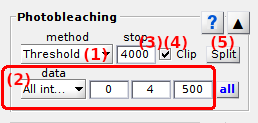
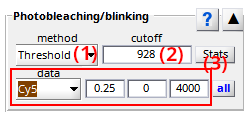
update doc section panel photobleaching/blinking with photobleaching an blinking detection

diff --git a/docs/trace-processing/components/panel-photobleaching.md b/docs/trace-processing/components/panel-photobleaching.md
@@ -8,25 +8,25 @@ nav_order: 7
 
 <img src="../../assets/images/logos/logo-trace-processing_400px.png" width="170" style="float:right; margin-left: 15px;"/>
 
-# Photobleaching
+# Photobleaching/blinking
 {: .no_toc }
 
-Photobleaching is the seventh panel of module Trace processing. 
+Photobleaching/blinking is the seventh panel of module Trace processing. 
 Access the panel content by pressing 
 ![Bottom arrow](../../assets/images/gui/interface-but-bottomarrow.png). 
 The panel closes automatically after other panels open or after pressing 
 ![Top arrow](../../assets/images/gui/interface-but-toparrow.png). 
 
-Photobleaching settings are specific to each molecule. 
+Photobleaching/blinking detection settings are specific to each molecule. 
 Press 
 ![all](../../assets/images/gui/TP-but-all.png "all") to apply current settings to all molecules. 
 Corrections will be applied only after processing data by pressing 
 ![UPDATE ALL](../../assets/images/gui/TP-but-update-all.png "UPDATE ALL"); see 
 [Process all molecules data](area-control.html#process-all-molecules-data) for more information.
 
-Use this panel to detect dye photobleaching and suppress photobleached data.
+Use this panel to detect and correct for dye blinking and photobleaching.
 
-<a class="plain" href="../../assets/images/gui/TP-panel-pb.png"><img src="../../assets/images/gui/TP-panel-pb.png" style="max-width: 258px;"/></a>
+![Photobleaching/blinking panel](../../assets/images/gui/TP-panel-pb.png "Photobleaching/blinking panel")
 
 ## Panel components
 {: .no_toc .text-delta }
@@ -37,102 +37,118 @@ Use this panel to detect dye photobleaching and suppress photobleached data.
 
 ---
 
-## Photobleaching detection method
+## Photobleaching/blinking detection method
 
-Use this list to select the appropriate method for photobleaching detection.
+Use this list to select the appropriate method for photobleaching/blinking detection.
 
 Emitter photobleaching can either be detected visually or automatically, by respectively selecting `Manual` or `Threshold` in the list.
 
 For `Manual` detection, the photobleaching cutoff must be set by hand in 
 [Photobleaching cutoff](#photobleaching-cutoff).
 
-`Threshold` detection is performed by thresholding using the settings defined in 
-[Automatic detection settings](#automatic-detection-settings).
+For `Threshold`, automatic detection of blinking and photobleaching is performed by using the settings defined in 
+[Threshold detection settings](#threshold-detection-settings).
 
 
 ---
 
 ## Photobleaching cutoff
 
-Shows the photobleaching position given in seconds or frame according to time-axis units defined in menu `Units` of the 
+Shows the time point at which the photobleaching event was detected. 
+It is given in seconds or frame according to the time-axis units defined in menu `Units` of the 
 [menu bar](../../Getting_started.html#interface).
 
-For method `Threshold`, the photobleaching cutoff detected with 
-[Automatic detection settings](#automatic-detection-settings) is shown here.
+For method `Threshold`, the earliest photobleaching cutoff detected with 
+[Automatic detection settings](#threshold-detection-settings) is shown here.
 
 For method `Manual`, the photobleaching cutoff must be set here.
 
 
 ---
 
-## Truncate trajectories
+## Stats
 
-Activate this option to truncate time traces at the 
-[Photobleaching cutoff](#photobleaching-cutoff), or deactivate this option to visualize a blue cursor at the cutoff position in 
-[Intensity-time traces](visualization-area.html#intensity-time-traces-and-histograms) and 
-[Ratio-time traces](visualization-area.html#ratio-time-traces-and-histograms).
+After applying `Threshold` photobleaching/blinking detection to all molecules with ![All](../../assets/images/gui/TP-but-all.png "All") and updating calculations with ![UPDATE ALL](../../assets/images/gui/TP-but-update-all.png "UPDATE ALL"), press ![Stats](../../assets/images/gui/TP-but-stats.png "stats") to open statistics on photobleaching and blinking.
 
-<img src="../../assets/images/figures/TP-panel-photobleaching-disp.png" style="max-width:538px;">
+![Stats window](../../assets/images/gui/TP-panel-pb-stats.png "Stats on blinking and photobleaching")
 
-<img src="../../assets/images/figures/TP-panel-photobleaching-truncate.png" style="max-width:538px;">
+In order to access lifetimes until photobleaching, as well as "on" and "off" state lifetimes for each emitter $$k$$, survival distributions $$S$$ are fit with single exponential functions:
 
-For more information about how photobleaching correction is used in smFRET data analysis, see 
-[Correct for photobleaching](../workflow.html#correct-for-photobleaching) in Trace processing workflow.
+$$
+S\!\left( \Delta t_{\mathrm{bleach},k} \right) = 1-CDF\!\left( \Delta t_{\mathrm{bleach},k} \right) = A_{\mathrm{bleach},k}\exp\!\left( -\frac{\Delta t_{\mathrm{bleach},k}}{\tau_{\mathrm{bleach},k}} \right)
+$$
+
+$$
+S\!\left( \Delta t_{\mathrm{on},k} \right) = A_{\mathrm{on},k}\exp\!\left( -\frac{\Delta t_{\mathrm{on},k}}{\tau_{\mathrm{on},k}} \right)
+$$
+
+$$
+S\!\left( \Delta t_{\mathrm{off},k} \right) = A_{\mathrm{off},k}\exp\!\left( -\frac{\Delta t_{\mathrm{off},k}}{\tau_{\mathrm{off},k}} \right)
+$$
+
+where $$\Delta t_{\mathrm{bleach}}$$ are the measured times until photobleaching, $$\Delta t_{\mathrm{on}}$$ and $$\Delta t_{\mathrm{off}}$$ are the dwell times in the "off" and "on" states, and where parameters $$A$$ are the exponential amplitudes and $$\tau$$ the state lifetimes.
+
+Confidence intervals on fit parameters $$A$$ and $$\tau$$ are obtained by calculating the standard deviations over 100 bootstrap molecule samples.
+
+Survival distributions of times until photobleaching, blink-off and blink-on dwell times are plot with blue circles in **(d)**, **(e)** and **(f)**, respectively, for the emitter selected in list **(a)** using the axis scale selected in list **(b)**.
+The available axis scales are:
+* `linear-linear`: time and probability axis are scaled linearly
+* `log-linear`: time axis is scaled logarithmically and probability axis linearly
+* `linear-log`: time axis is scaled linearly and probability axis logarithmically
+* `log-log`: time and probability axis are scaled logarithmically
+
+Bootstrap fit results are plot in red, with the mean fitting curve being represented by in solid line and 1$$\sigma$$ confidence interval by dotted lines.
+Fit parameters and 1$$\sigma$$ confidence interval are written in the top-right corner of the plots.
+
+To characterize blinking kinetics, rate constants $$k_{\mathrm{off},k}$$ and  $$k_{\mathrm{on},k}$$ that respectively govern transitions to the "off" or to the "on" state for emitter $$k$$ are calculated from "on" and "off" state lifetimes such as:
+
+$$
+k_{\mathrm{off},k} = \frac{1}{\tau_{\mathrm{on},k}}
+$$
+
+$$
+k_{\mathrm{on},k} = \frac{1}{\tau_{\mathrm{off},k}}
+$$
+
+A state diagram summarizing blinking kinetics is drawn in **(g)**.
+
+Press ![Export](../../assets/images/gui/TP-but-export.png) to save statistics for emitter selected in **(a)** to a .txt file.
 
 
 ---
 
-## Split trajectories
+## Threshold detection settings
 
-Intensity interruptions occurring in the middle of a trace (e. g., blinking) can be corrected by splitting intensity-time traces in two and truncating the end of the first trace (see 
-[Truncate trajectories](#truncate-trajectories)) and the beginning of the second (see 
-[Time axis](panel-plot.html#time-axis)).
+Use this interface to define the settings for automatic detection of photobleaching.
 
-Press 
-![Split](../../assets/images/gui/TP-but-split.png "all") to split time traces in two at the 
-[Photobleaching cutoff](#photobleaching-cutoff).
-In this case, the right-side of the cutoff is saved as a separate molecule, which is added to the 
-[Molecule list](panel-sample-management.html#molecule-list).
-Both molecules will be given a "Split" tag in order to easily identify them in the list.
+![Threshold settings](../../assets/images/gui/TP-panel-pb-param.png "Threshold detection settings")
 
-For more information about how blinking correction is used in smFRET data analysis, see 
-[Correct for photobleaching](../workflow.html#correct-for-photobleaching) in Trace processing workflow.
+Settings are specific to the emitter selected in **(a)**, where only the emitters having a specific laser illumination defined in 
+[Lasers](../../tutorials/set-experiment-settings/import-trajectories.html#lasers) are listed.
 
+The algorithm for automatic detection of photobleaching inspects the total emission trajectory $$I_{\mathrm{tot}}$$ of each of the $$K$$ emitters in order to look for blinking and photobleaching events.
+Total emissions are obtained by summing up intensities accross all emission channels collected upon the emitter's specific laser illumination:
 
----
+$$
+I_{\mathrm{tot},k} = \sum_{i=1}^K I_{i,\mathrm{em}}^{k,\mathrm{ex}} 
+$$
 
-## Automatic detection settings
+where $$I_{i,\mathrm{em}}^{k,\mathrm{ex}}$$ is the intensity collected in emission channel $$i$$ upon illumination with laser specific to emitter $$k$$.
 
-Us this interface to define the settings for automatic detection of photobleaching.
+To counteract the undesirable effects of noisy fluctuations on threshold detection and make the algorithm more robust, trajectories are discretized using [`STaSI+vbFRET`](panel-find-states.html#stasivbfret) prior analysis, and a threshold **(b)** relative to the maximum discrete intensity is used.
 
-<a class="plain" href="../../assets/images/gui/TP-panel-pb-param.png"><img src="../../assets/images/gui/TP-panel-pb-param.png" style="max-width: 204px;"/></a>
+Then, an “off” state is identified when the discretized trajectory falls below the threshold, and an “on” state when it rises back above it.
+Portions of the trajectories that were detected in a "off" state are indicated with a gray background in in trajectory plots of the [Visualization area](area-visu.html) and the associated data is intentionally not plotted as it is ignored from the rest of the analysis.
 
-Photobleaching is detected when the time trace selected in menu **(a)** drops below a certain threshold defined in **(b)** and providing a minimum cutoff value set in **(d)**.
+![Off states in trajectories](../../assets/images/figures/TP-panel-pb-traj.png)
 
-Traces available for photobleaching detection are:
-
-* `FRET [D]>[A]` the FRET-time trace of the pair donor emitter `[D]` -acceptor emitter `[A]`
-* `S [D]>[A]` the Stoichiometry-time trace associated to the FRET pair donor emitter `[D]` -acceptor emitter `[A]`
-* `[E] at [L]nm` the single intensity-time trace of emitter `[E]` upon illumination with laser wavelength `[L]` (in nm)
-* `all intensities` the minimum values found in all intensity-time traces
-* `summed intensities` the sum of all intensity-time traces
-
-In case of intensity-time traces, the threshold is given in counts or counts per second according to intensity units defined in menu `Units` of the 
+Photobleaching is declared when 100% of the remaining trajectory is below the threshold providing a minimum photobleached duration set in **(c)** and given in time units defined in menu `Units` of the 
 [menu bar](../../Getting_started.html#interface).
-
-Traces `all intensities` and `summed intensities` are calculated from intensities in absence of any acceptors, *i. e.* summed over all channels at emitter-specific illumination.
-This allows to exclude the zero-intensity signals collected at unspecific illuminations that are constantly "photobleached" and prevent the automatic photobleaching detection to function.
-Only emitters having a specific illumination defined in 
-[Channels](../../tutorials/set-experiment-settings/import-trajectories.html#channels) are considered in these calculations.
-
-To ensure detection at the very beginning of acceptor photobleaching, the detected cutoff position can be shifted downwards by a certain number of frames set in **(c)**.
-
-Parameters **(b)** and **(c)** are given in frame number or in second according to time units defined in menu `Units` of the 
-[menu bar](../../Getting_started.html#interface).
-
-The resulting photobleaching cutoff displayed in 
-[Photobleaching cutoff](#photobleaching-cutoff) only after processing the current molecule, *i.e.*, when pressing 
-![UPDATE](../../assets/images/gui/TP-but-update.png "UPDATE"); see 
+The resulting photobleaching time point is given in **(d)** and can be refreshed by pressing ![UPDATE](../../assets/images/gui/TP-but-update.png "UPDATE"); see 
 [Process current molecule data](panel-sample-management.html#process-current-molecule-data) for more information.
 
+Detected photobleaching events are represented by vertical dotted lines in trajectory plots of the [Visualization area](area-visu.html).
+
+The photobleaching time point of the emitter that photobleached first is given as the global [Photobleaching cutoff](#photobleaching-cutoff) of the molecule that defines the end of the observation time.
+Global molecule cutoff is represented by a vertical solid line in trajectory plots of the [Visualization area](area-visu.html).
 

diff --git a/docs/output-files/txt-photobleaching-blinking-stats.md b/docs/output-files/txt-photobleaching-blinking-stats.md
@@ -1,0 +1,63 @@
+---
+layout: default
+title: (*.txt) Photobleaching/blinking stats
+parent: Output files
+nav_exclude: 1
+nav_order: 32
+---
+
+<img src="../assets/images/logos/logo-output-files_400px.png" width="170" style="float:right; margin-left: 15px;"/>
+
+# Photobleaching/blinking stats files
+{: .no_toc }
+
+Photobleaching/blinking stats files are ASCII files with the extension `.txt`. They are usually found in the main analysis folder.
+
+## Table of contents
+{: .no_toc .text-delta }
+
+1. TOC
+{:toc}
+
+
+---
+
+## Description
+
+Photobleaching/blinking stats files are emitter- and data-specific. They contain statistics on times until emitter photobleaching or blinking dwell times detected in Trace processing.
+
+They are created in the analysis root folder when exporting results from window 
+[Stats](../trace-processing/components/panel-photobleaching.html#stats) of module Trace processing.
+
+
+---
+
+## File name
+
+The file is named by the user during the export process.
+By default, the file is named after the selected <u>project file</u>.
+
+The file name is appended with the extension `_stats_[Ddd]_[Eee]` where `[Ddd]` is `bleach`, `blink-off` or `blink-on` whether the stats concern time until photobleaching, dwell times in the "off" state or dwell times in the "on" state. `[Eee]` is the emitter label as defined in the [Experiment settings](../tutorials/set-experiment-settings/import-trajectories.html#channels).
+
+
+---
+
+## Structure
+
+The statistics are organized column-wise with:
+* column `bin centers` containing the centers of the dwell time histogram bins, given in time units defined in interface's menu `Units`
+* column `bin edges` containing the edges of the dwell time histogram bins, given in time units defined in interface's menu `Units`
+* column `count` containing dwell time histogram counts
+* column `1-CDF` containing the survival dwell time probability (complementary of the cumulative probability)
+* column `fit` containing the exponential fit curve that uses the bootstrap mean of the fit parameters (equation is given in the header with the time constant given in time units defined in interface's menu `Units`
+* column `lower bound` containing the exponential fit curve that uses the lower bound (-1$$\sigma$$) of the confidence interval of fit parameters (equation is given in the header with the time constant given in time units defined in interface's menu `Units`
+* column `upper bound` containing the exponential fit curve that uses the upper bound (+1$$\sigma$$) of the confidence interval of fit parameters (equation is given in the header with the time constant given in time units defined in interface's menu `Units`)
+
+```
+bin centers (time steps)  bin edges (time steps)  count 1-CDF fit 1.70*exp(-t/1702.45)  lower bound (1.70-0.25)exp(-t/(1702.45-298.47)) upper bound (1.70+0.25)exp(-t/(1702.45+298.47))
+2.038889e+01  1 0 1 1.680086e+00  1.424994e+00  1.934999e+00
+5.916667e+01  3.977778e+01  0 1 1.642250e+00  1.386174e+00  1.897860e+00
+9.794444e+01  7.855556e+01  0 1 1.605266e+00  1.348412e+00  1.861433e+00
+1.367222e+02  1.173333e+02  0 1 1.569115e+00  1.311679e+00  1.825706e+00
+1.755000e+02  1.561111e+02  0 1 1.533779e+00  1.275946e+00  1.790665e+00
+```
